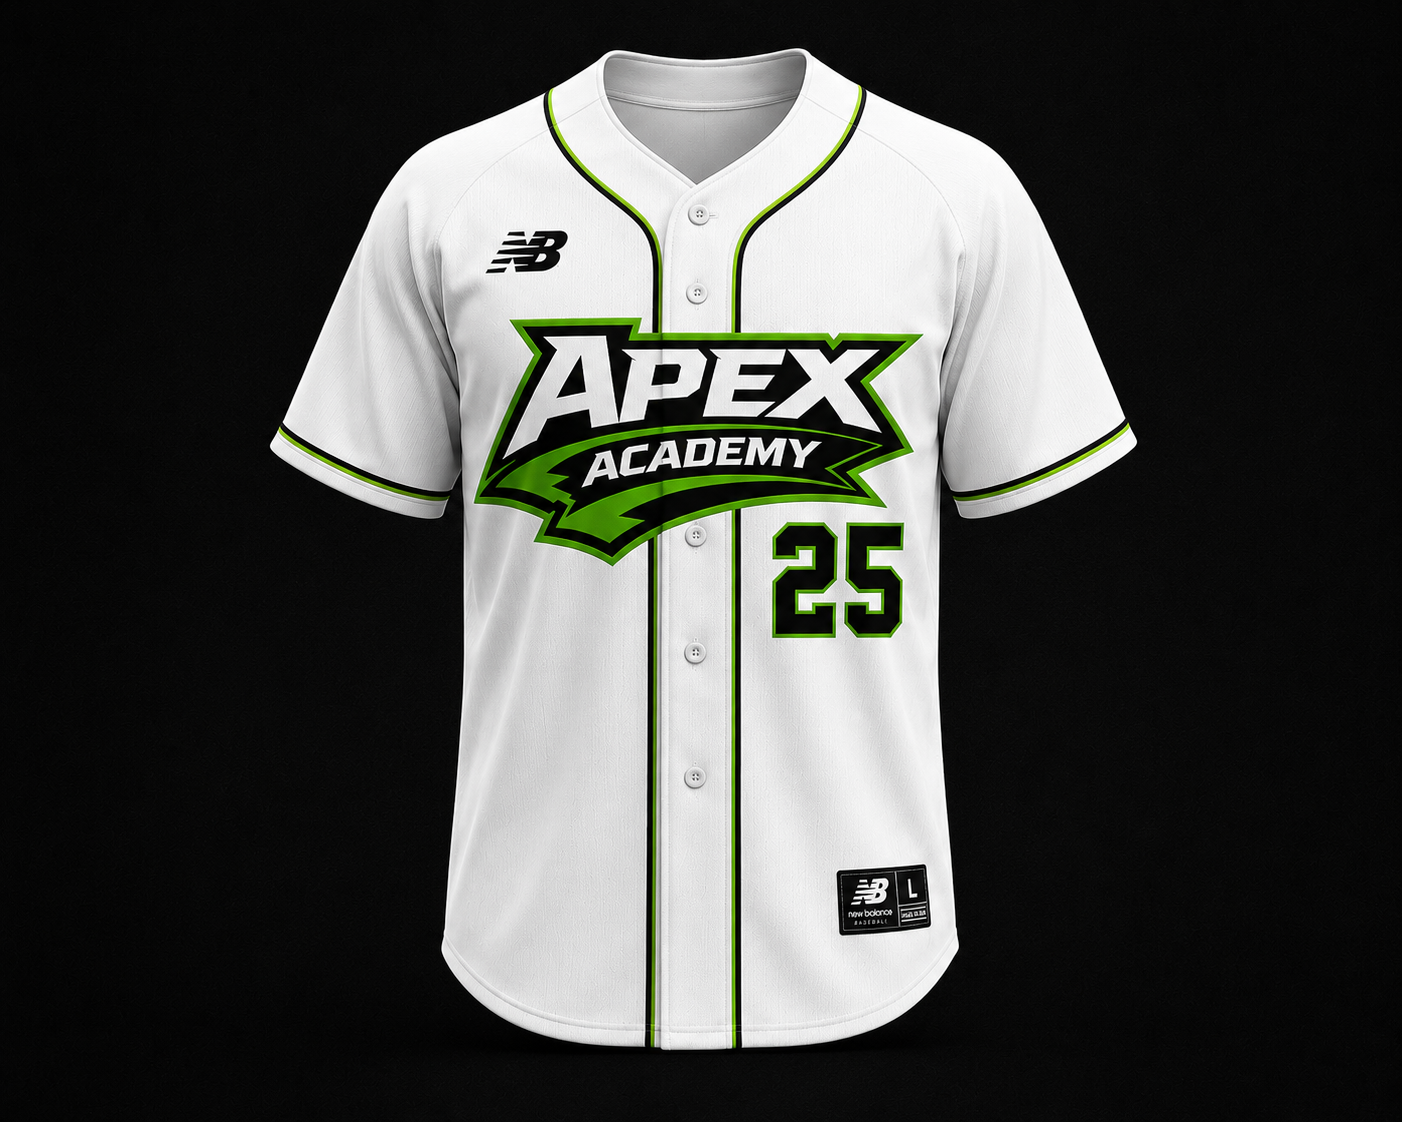
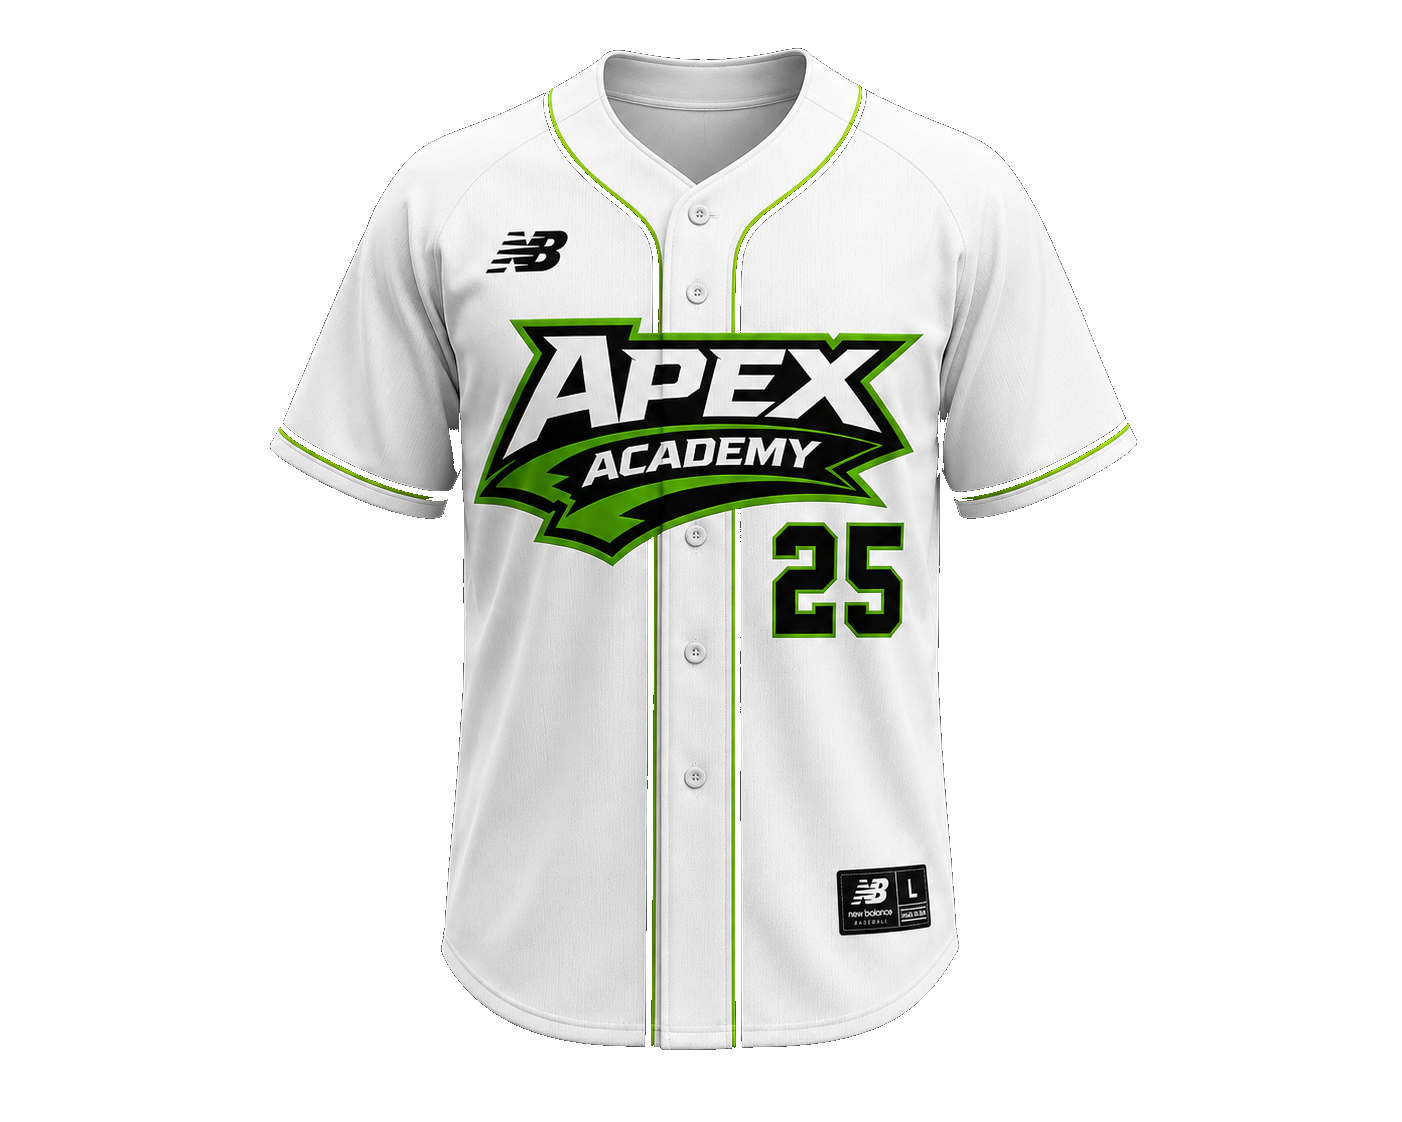
Shop: transparent cutouts for white products + alt jersey + game pants
- Add scripts/cutout.js: edge flood-fill background removal (clears the
  edge-connected background, keeps internal dark details like piping/logos).
- Cut out the home + alternate jerseys and game pants (white-on-black =
  clean cutouts) so they float transparently on the shop cards.
- Add the white/navy/red alternate jersey and New Balance game pants photos
  and wire them into their products.
- Away jersey stays on its black background (black-on-black can't be cleanly
  cut); hat likewise pending a transparent/white-bg source.

diff --git a/scripts/cutout.js b/scripts/cutout.js
@@ -1,0 +1,29 @@
+const sharp = require("sharp");
+const [,, inPath, outPath, thrArg] = process.argv;
+const threshold = parseInt(thrArg || "60", 10);
+
+(async () => {
+  const { data, info } = await sharp(inPath).ensureAlpha().raw().toBuffer({ resolveWithObject: true });
+  const { width, height } = info;
+  const lum = (i) => 0.299 * data[i] + 0.587 * data[i + 1] + 0.114 * data[i + 2];
+  const visited = new Uint8Array(width * height);
+  const stack = [];
+  const seed = (x, y) => {
+    if (x < 0 || y < 0 || x >= width || y >= height) return;
+    const p = y * width + x;
+    if (visited[p]) return;
+    visited[p] = 1;
+    const i = p * 4;
+    if (lum(i) < threshold) { data[i + 3] = 0; stack.push(x, y); }
+  };
+  for (let x = 0; x < width; x++) { seed(x, 0); seed(x, height - 1); }
+  for (let y = 0; y < height; y++) { seed(0, y); seed(width - 1, y); }
+  while (stack.length) {
+    const y = stack.pop(), x = stack.pop();
+    seed(x + 1, y); seed(x - 1, y); seed(x, y + 1); seed(x, y - 1);
+  }
+  let cleared = 0;
+  for (let p = 0; p < width * height; p++) if (data[p * 4 + 3] === 0) cleared++;
+  await sharp(data, { raw: { width, height, channels: 4 } }).png().toFile(outPath);
+  console.log(`done ${width}x${height} thr=${threshold} cleared=${(100 * cleared / (width * height)).toFixed(1)}%`);
+})();

diff --git a/src/app/shop/page.tsx b/src/app/shop/page.tsx
@@ -22,10 +22,10 @@ const PRODUCTS: Product[] = [
   // Jerseys
   { id: "jersey-home", name: "Home Jersey", category: "Jerseys", price: 90, colors: ["White"], description: "Official Apex Academy home jersey. White New Balance full button-down with the Apex Academy mark, green and black piping, and a pro-cut fit.", image: "/shop/jersey-home.png" },
   { id: "jersey-away", name: "Away Jersey", category: "Jerseys", price: 90, colors: ["Black"], description: "Official Apex Academy away jersey. Black New Balance full button-down with the Apex Academy mark and green piping. Pro-cut fit.", image: "/shop/jersey-away.png" },
-  { id: "jersey-alt", name: "Alternative Jersey", category: "Jerseys", price: 90, colors: ["Green"], description: "Alternative game day jersey. Bold Apex green colorway with premium detailing." },
+  { id: "jersey-alt", name: "Alternative Jersey", category: "Jerseys", price: 90, colors: ["White/Navy/Red"], description: "Alternative Apex Academy jersey. White New Balance full button-down with navy and red trim and the Apex Academy mark.", image: "/shop/jersey-alt.png" },
 
   // Pants & Bottoms
-  { id: "pants-game", name: "New Balance Game Pants", category: "Pants & Bottoms", price: 55, colors: ["White", "Black"], description: "Official New Balance game pants. Pro-length with reinforced knees. Belt loop waist. Performance fit." },
+  { id: "pants-game", name: "New Balance Game Pants", category: "Pants & Bottoms", price: 55, colors: ["White", "Black"], description: "Official New Balance game pants. Pro-length with reinforced knees, belt-loop waist, and black piping. Performance fit.", image: "/shop/pants-game.png" },
   { id: "shorts-training", name: "Training Shorts", category: "Pants & Bottoms", price: 40, colors: ["Black"], description: "Lightweight performance shorts with zippered pockets. Athletic fit for training and warmups." },
   { id: "sweats-apex", name: "Apex Sweatpants", category: "Pants & Bottoms", price: 55, colors: ["Black"], description: "Premium black sweatpants with embroidered Apex branding. Tapered leg. Comfortable off-field wear." },
 